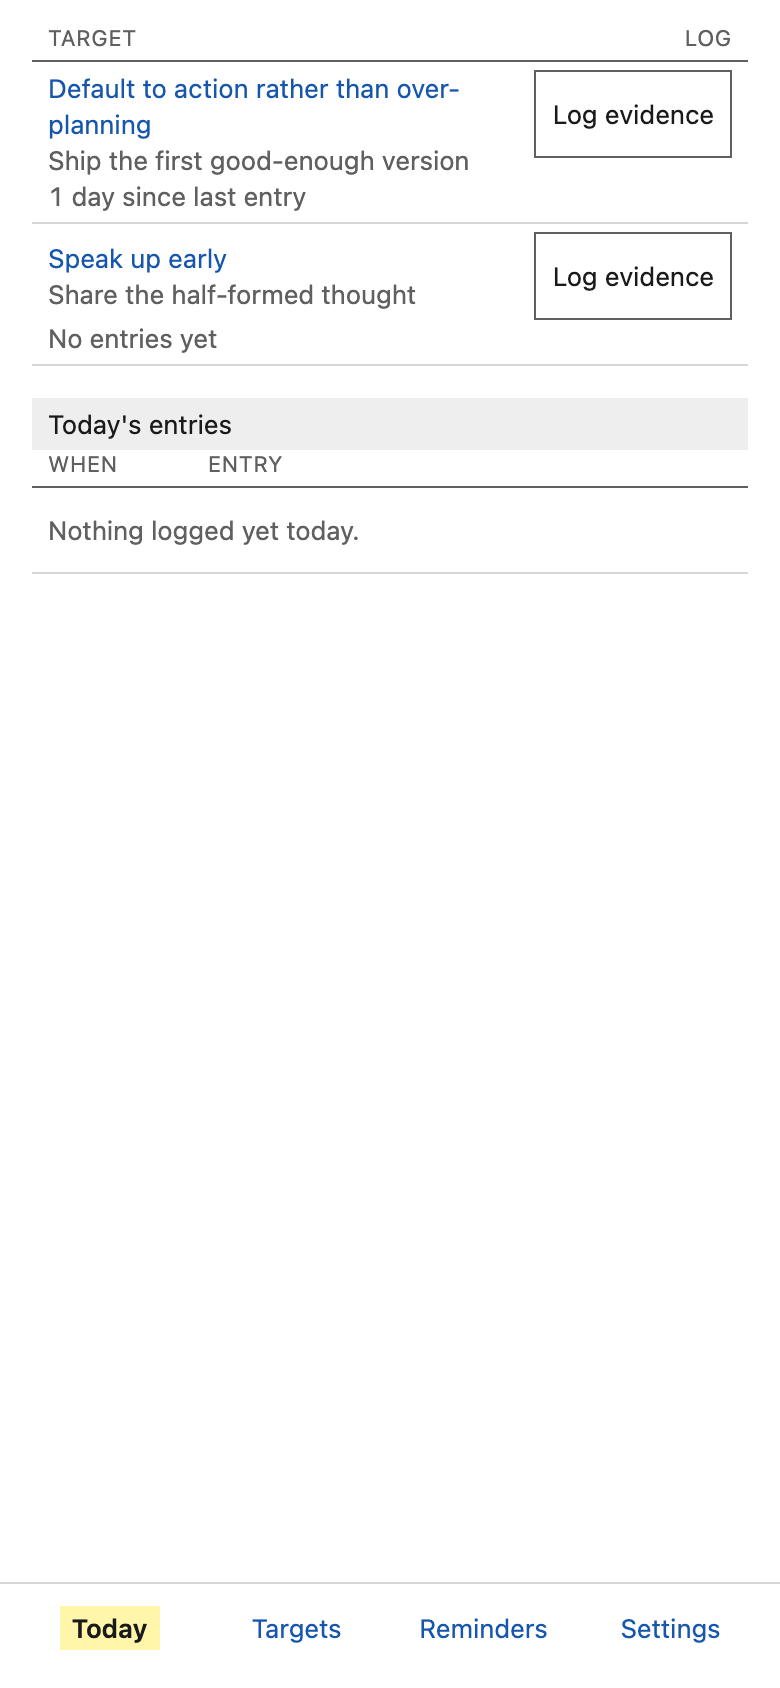
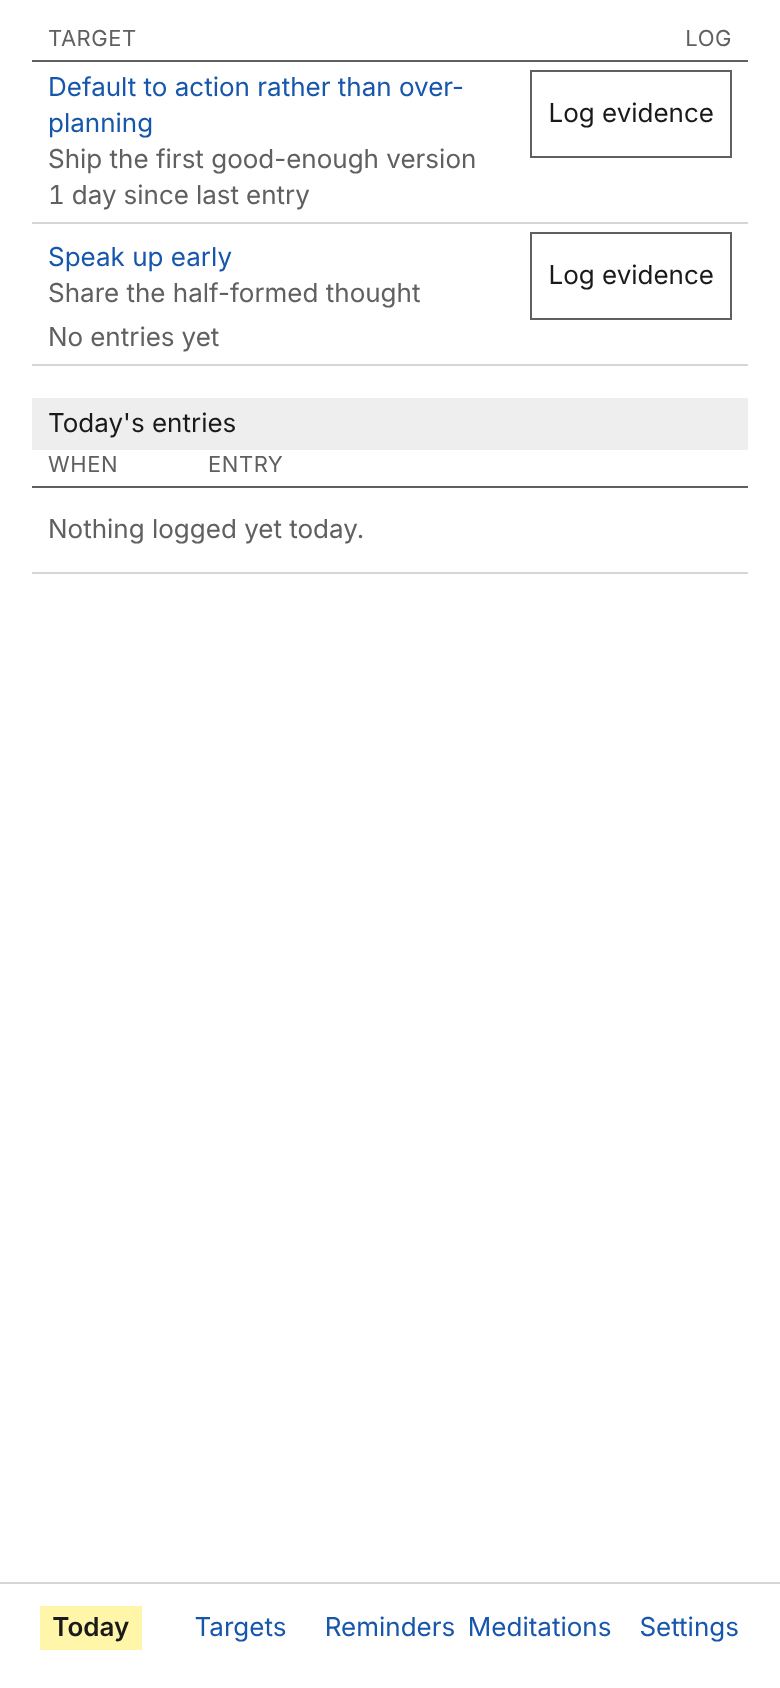
feat(mobile): add a Meditations tab of hard-coded links
Claude-Session: https://claude.ai/code/session_01EpZzubMRhDq1rfABD2Enez

diff --git a/apps/mobile/app/(app)/meditations.tsx b/apps/mobile/app/(app)/meditations.tsx
@@ -1,0 +1,60 @@
+import { Linking, Pressable, Text, View } from "react-native";
+import { MEDITATIONS, sourceOf, type Meditation } from "../../src/features/meditations/links";
+import { ColumnHead, Heading, Screen, TableHead } from "../../src/ui";
+
+/** Column widths, shared by the head and every row. A phone folds the source under the title. */
+const COL = {
+  title: "flex-1",
+  source: "hidden w-40 md:flex",
+};
+const ROW_GAP = "gap-2 md:gap-3";
+
+/** Meditations: a hard-coded list of links (src/features/meditations/links.ts), each opening outside the app. */
+export default function Meditations() {
+  return (
+    <Screen testID="screen-meditations">
+      <Heading hidden>Meditations</Heading>
+      <View>
+        <TableHead className={ROW_GAP}>
+          <ColumnHead className={COL.title}>Meditation</ColumnHead>
+          <ColumnHead className={COL.source}>Source</ColumnHead>
+        </TableHead>
+        {MEDITATIONS.map((m) => (
+          <MeditationRow key={m.url} meditation={m} />
+        ))}
+      </View>
+    </Screen>
+  );
+}
+
+/**
+ * One meditation: the whole row is the link. It opens in the browser (a new tab on web) or, on a phone, in the
+ * YouTube or Drive app when installed.
+ */
+function MeditationRow({ meditation }: { meditation: Meditation }) {
+  const source = sourceOf(meditation.url);
+  return (
+    <Pressable
+      accessibilityRole="link"
+      accessibilityLabel={`${meditation.title}, opens ${source}`}
+      accessibilityHint="Opens outside the app"
+      testID="meditation-row"
+      onPress={() => void Linking.openURL(meditation.url)}
+      className={`min-h-tap flex-row items-center border-b border-rule px-2 py-1 hover:bg-mark active:bg-mark ${ROW_GAP}`}
+    >
+      <View className={COL.title}>
+        <Text className="text-caption text-link" numberOfLines={2}>
+          {meditation.title} ↗
+        </Text>
+        <View className="md:hidden">
+          <Text className="text-caption text-dim" numberOfLines={1}>
+            {source}
+          </Text>
+        </View>
+      </View>
+      <View className={COL.source}>
+        <Text className="text-caption text-ink">{source}</Text>
+      </View>
+    </Pressable>
+  );
+}

diff --git a/apps/mobile/src/features/meditations/links.ts b/apps/mobile/src/features/meditations/links.ts
@@ -1,0 +1,51 @@
+/**
+ * The meditations listed on the Meditations tab, in the order shown. Hard-coded on purpose: to add one, add a line
+ * here. Every link needs a title (the file or video's own name); `source` is worked out from the URL.
+ */
+export const MEDITATIONS: readonly Meditation[] = [
+  {
+    title: "The Acceptance Tool Kit exercise",
+    url: "https://drive.google.com/file/d/1iajrAwhhu_yN6O-oTl3rTbDX4EIpPN45/view?usp=sharing",
+  },
+  {
+    title: "Self Compassion Break",
+    url: "https://www.youtube.com/watch?v=pfhau72OUw4",
+  },
+  {
+    title: "Drop anchor (40 seconds)",
+    url: "https://drive.google.com/file/d/1b2SIH4ubk8J3mLs0drhZZgiLawNoSGIg/view",
+  },
+  {
+    title: "Drop anchor (2 minutes)",
+    url: "https://drive.google.com/file/d/1z2n0d_MZJ83lApMiusplpI7kTDLYfaAS/view?usp=drive_link",
+  },
+  {
+    title: "Drop anchor (7 minutes)",
+    url: "https://drive.google.com/file/d/1Y-TNL6HVXQjO4gzGP5PlNx6agq_E9UTq/view?usp=sharing",
+  },
+  {
+    title: "Drop anchor (11 minutes)",
+    url: "https://drive.google.com/file/d/1BWsl48YONpRspvD9ruEFyR8rCaA9MJCq/view?usp=sharing",
+  },
+];
+
+export interface Meditation {
+  title: string;
+  url: string;
+}
+
+const SOURCES: readonly { host: RegExp; label: string }[] = [
+  { host: /(^|\.)(youtube\.com|youtu\.be)$/, label: "YouTube" },
+  { host: /^drive\.google\.com$/, label: "Google Drive" },
+];
+
+/** Where a link opens, for the Source column: a known service's name, else the bare host ("example.com"). */
+export function sourceOf(url: string): string {
+  let host: string;
+  try {
+    host = new URL(url).hostname.replace(/^www\./, "");
+  } catch {
+    return "Link";
+  }
+  return SOURCES.find((s) => s.host.test(host))?.label ?? host;
+}

diff --git a/apps/mobile/e2e/screens.spec.ts b/apps/mobile/e2e/screens.spec.ts
@@ -53,6 +53,10 @@ test("every screen renders on web (screenshots for docs/screenshots)", async ({ 
   await expect(page.getByTestId("reminder-card")).toHaveCount(1);
   await shot(page, project, "09-reminders");
 
+  await page.goto("/meditations");
+  await expect(page.getByTestId("meditation-row")).toHaveCount(6);
+  await shot(page, project, "09b-meditations");
+
   await page.goto("/settings");
   await expect(page.getByTestId("screen-settings")).toBeVisible();
   await expect(page.getByText(`Signed in as ${email}`)).toBeVisible();
@@ -79,7 +83,7 @@ test("every tappable control is at least 44px", async ({ page, request }) => {
   const { email, token } = await createUser(request);
   await seedData(request, token);
   await signIn(page, email);
-  for (const path of ["/", "/targets", "/reminders", "/settings"]) {
+  for (const path of ["/", "/targets", "/reminders", "/meditations", "/settings"]) {
     await page.goto(path);
     await page.waitForLoadState("networkidle");
     const small = await page

diff --git a/apps/mobile/src/features/meditations/links.test.ts b/apps/mobile/src/features/meditations/links.test.ts
@@ -1,0 +1,25 @@
+import { MEDITATIONS, sourceOf } from "./links";
+
+describe("sourceOf", () => {
+  it("names known services", () => {
+    expect(sourceOf("https://www.youtube.com/watch?v=pfhau72OUw4")).toBe("YouTube");
+    expect(sourceOf("https://youtu.be/pfhau72OUw4")).toBe("YouTube");
+    expect(sourceOf("https://m.youtube.com/watch?v=x")).toBe("YouTube");
+    expect(sourceOf("https://drive.google.com/file/d/abc/view")).toBe("Google Drive");
+  });
+
+  it("falls back to the host, then to 'Link'", () => {
+    expect(sourceOf("https://www.example.com/a")).toBe("example.com");
+    expect(sourceOf("not a url")).toBe("Link");
+  });
+});
+
+describe("MEDITATIONS", () => {
+  it("are https links with titles and no duplicates", () => {
+    for (const m of MEDITATIONS) {
+      expect(m.title.trim()).not.toBe("");
+      expect(new URL(m.url).protocol).toBe("https:");
+    }
+    expect(new Set(MEDITATIONS.map((m) => m.url)).size).toBe(MEDITATIONS.length);
+  });
+});

diff --git a/apps/mobile/app/(app)/_layout.tsx b/apps/mobile/app/(app)/_layout.tsx
@@ -32,6 +32,7 @@ export default function AppLayout() {
         <Tabs.Screen name="index" options={{ title: "Today" }} />
         <Tabs.Screen name="targets" options={{ title: "Targets", popToTopOnBlur: true }} />
         <Tabs.Screen name="reminders" options={{ title: "Reminders" }} />
+        <Tabs.Screen name="meditations" options={{ title: "Meditations" }} />
         <Tabs.Screen name="settings" options={{ title: "Settings" }} />
         <Tabs.Screen name="entries/[id]" options={{ href: null }} />
       </Tabs>

diff --git a/apps/mobile/src/ui/AppShell.tsx b/apps/mobile/src/ui/AppShell.tsx
@@ -11,6 +11,7 @@ export const NAV_ROUTES = [
   { name: "index", label: "Today" },
   { name: "targets", label: "Targets" },
   { name: "reminders", label: "Reminders" },
+  { name: "meditations", label: "Meditations" },
   { name: "settings", label: "Settings" },
 ] as const;
 

diff --git a/apps/mobile/AGENTS.md b/apps/mobile/AGENTS.md
@@ -5,7 +5,7 @@ output) is served by `@te/api` from the same origin, so web uses the session coo
 
 - **Imports:** `@te/contracts` and `@te/client` only from the workspace (dependency-cruiser enforces this).
 - **Routes (`app/`):** `sign-in`, `consent` (OAuth for MCP clients), `(app)/` (Tabs: `index` Today, `targets/…`
-  Stack, `reminders`, `settings`, hidden `entries/[id]`), `log/[toolId]` (modal; `log/recent` = last-used tool,
+  Stack, `reminders`, `meditations`, `settings`, hidden `entries/[id]`), `log/[toolId]` (modal; `log/recent` = last-used tool,
   used by the "Log evidence" home-screen quick action).
 - **Layout:** `src/ui/AppShell.tsx` — custom tab bar: bottom bar below 768px, left sidebar at ≥768px.
 - **Data:** TanStack Query via the generated client (`src/api/client.ts`). Cache and paused mutations persist to
@@ -25,6 +25,8 @@ output) is served by `@te/api` from the same origin, so web uses the session coo
   because EAS fingerprints without git metadata. Every Babel preset/plugin named in `babel.config.js` (or named
   as a string by a preset, e.g. NativeWind's `@babel/plugin-transform-react-jsx`) must be a direct dependency:
   `eas update` and the Xcode bundling phase run Expo without pnpm's `NODE_PATH`, so hoisted packages aren't found.
+- **Meditations:** a hard-coded list of links in `src/features/meditations/links.ts` (no API or DB); edit that
+  constant to add one. Every link needs a title; rows open the URL with `Linking.openURL`.
 - **Platform code:** `*.native.ts` / `*.ts` (web) pairs in `src/platform/` and `src/auth/passkey*`.
 - **Tools:** `src/tools/<type>/{QuickLogForm,EntryCard}.tsx`, registered in `src/tools/index.ts` as a complete
   `Record<ToolType, ToolUi>` (typecheck fails if a registry type has no UI).
